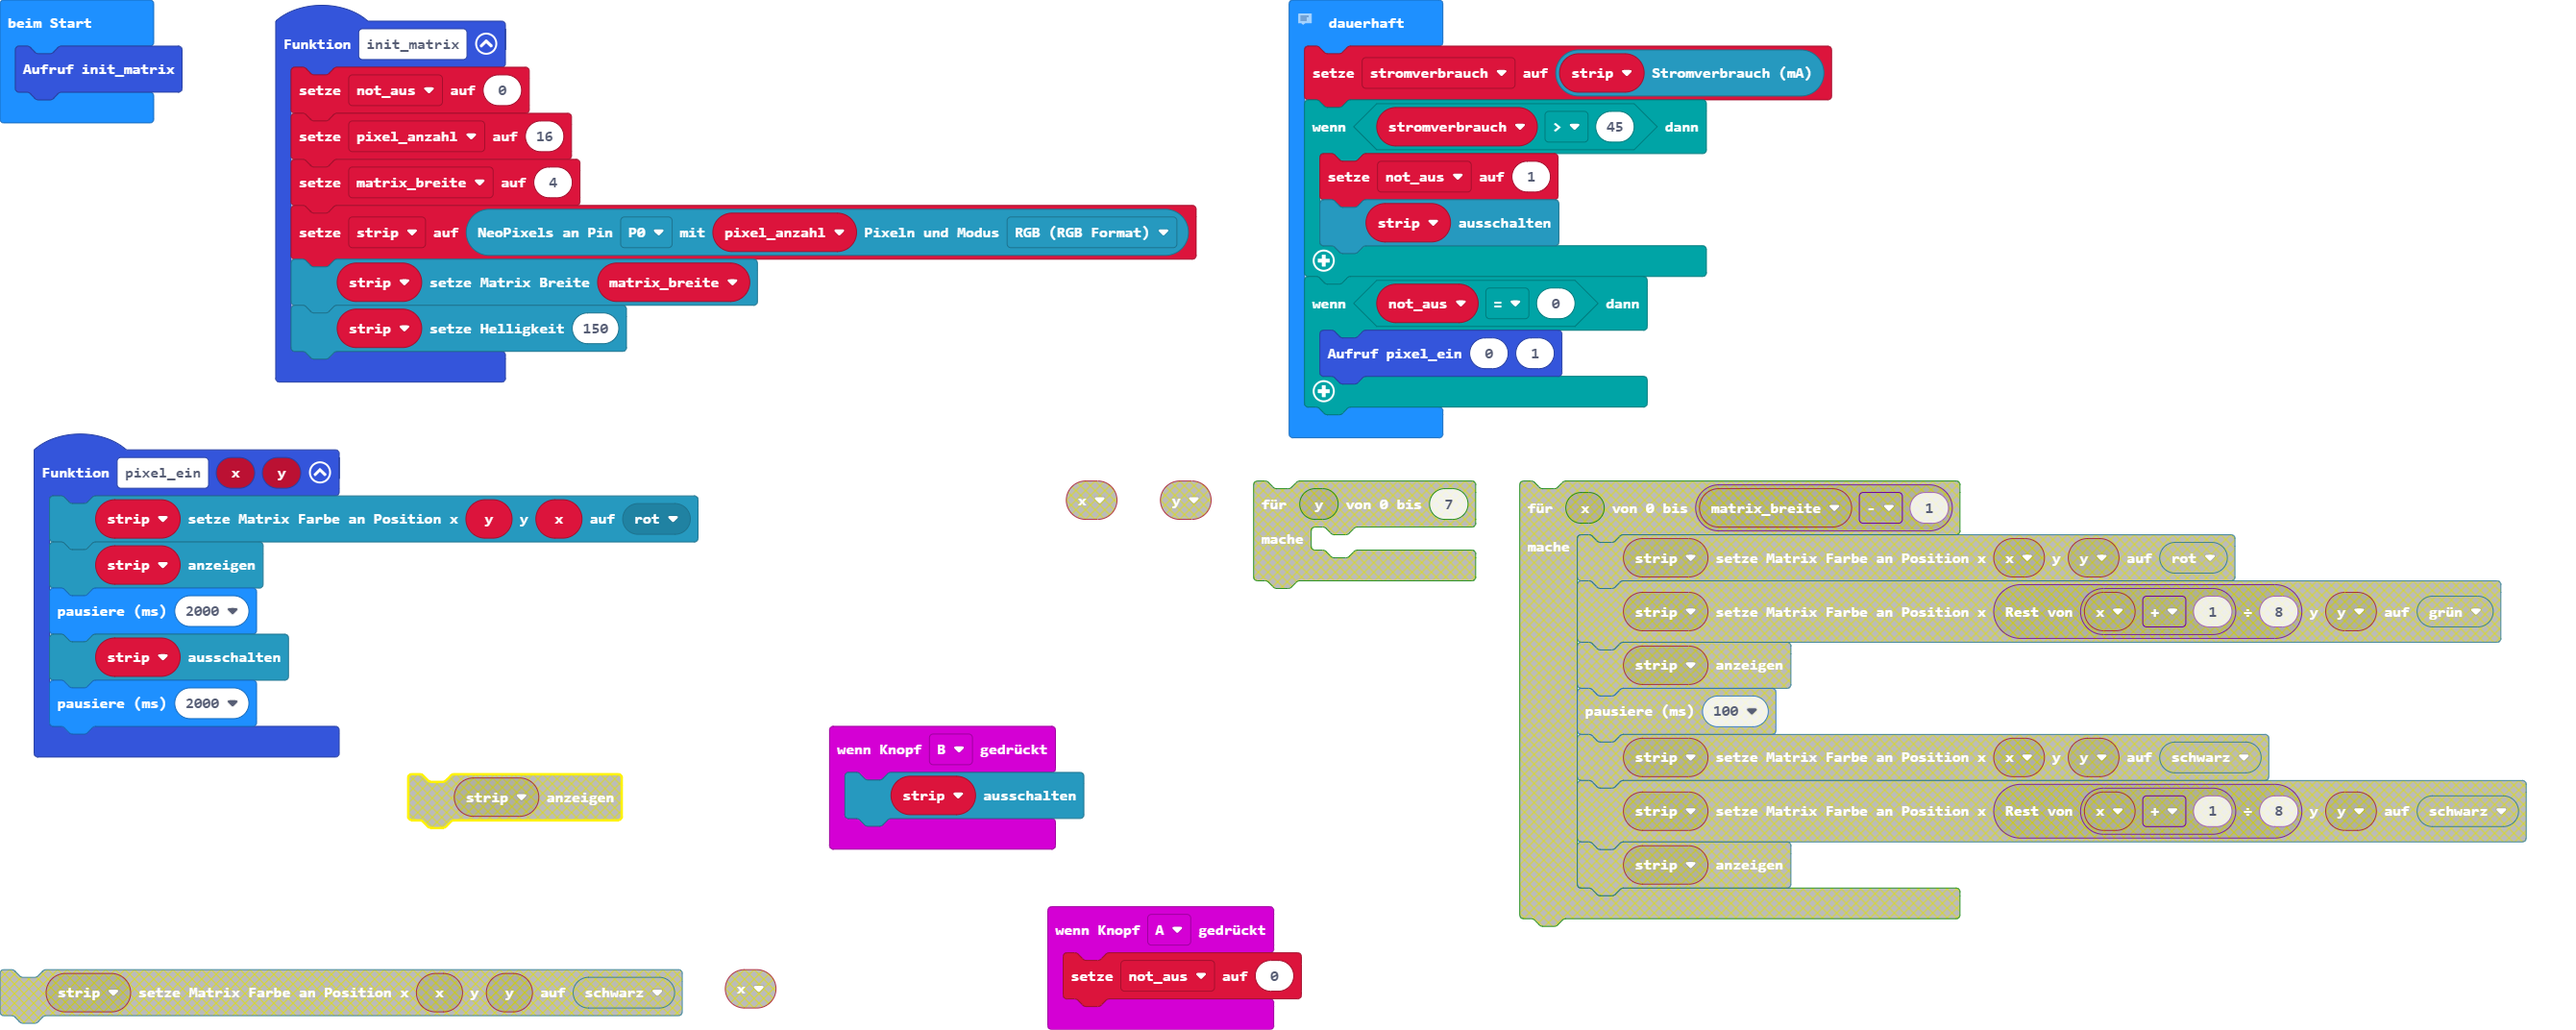
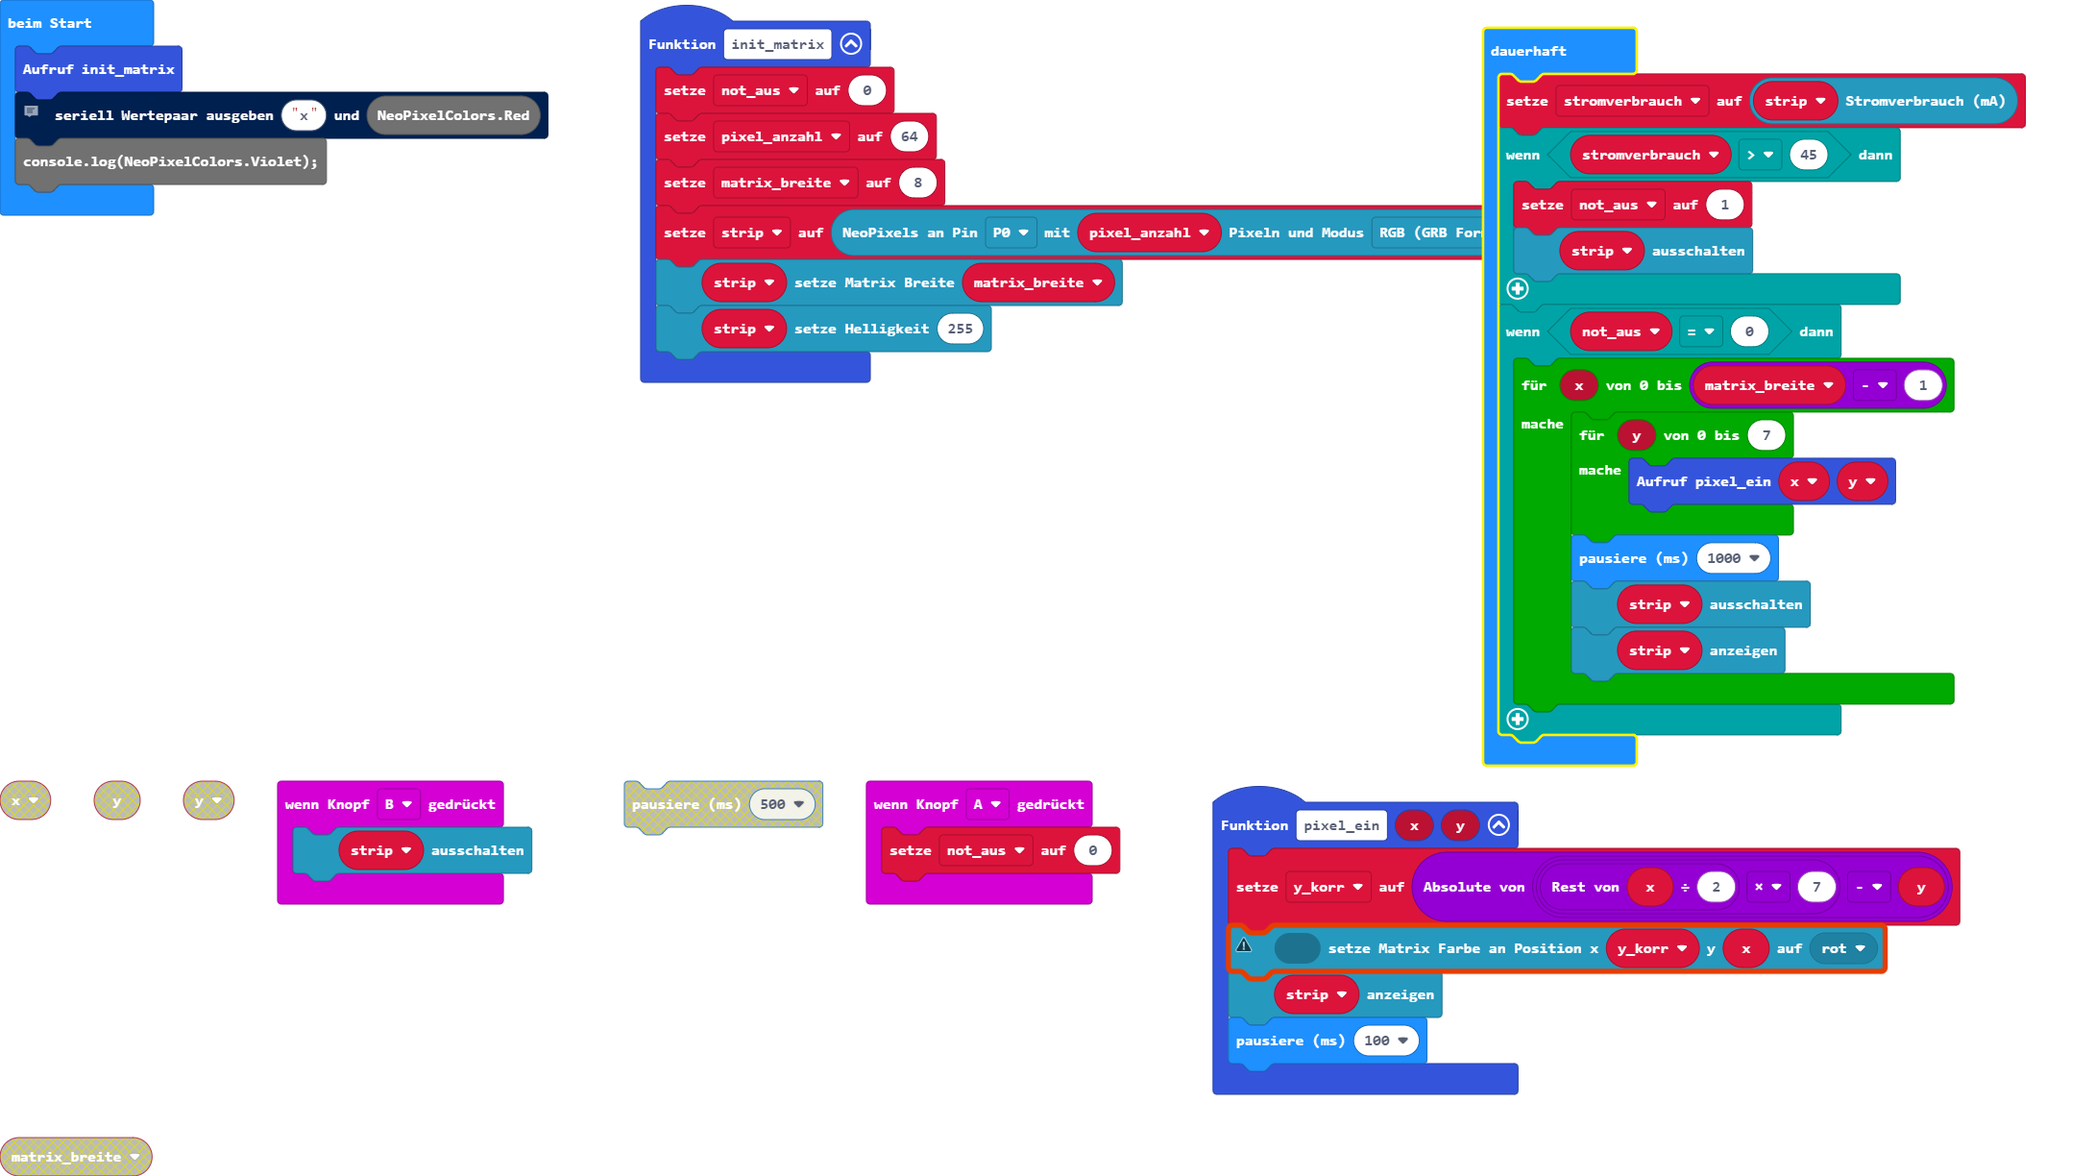
Aktualisiere main.blocks, main.ts

diff --git a/main.ts b/main.ts
@@ -1,31 +1,33 @@
 function init_matrix () {
     not_aus = 0
-    pixel_anzahl = 16
-    matrix_breite = 4
-    strip = neopixel.create(DigitalPin.P0, pixel_anzahl, NeoPixelMode.RGB_RGB)
+    pixel_anzahl = 64
+    matrix_breite = 8
+    strip = neopixel.create(DigitalPin.P0, pixel_anzahl, NeoPixelMode.RGB)
     strip.setMatrixWidth(matrix_breite)
-    strip.setBrightness(150)
+    strip.setBrightness(255)
 }
 input.onButtonPressed(Button.A, function () {
     not_aus = 0
 })
 function pixel_ein (x: number, y: number) {
-    strip.setMatrixColor(y, x, neopixel.colors(NeoPixelColors.Red))
+    y_korr = Math.abs(x % 2 * 7 - y)
+    null.setMatrixColor(y_korr, x, neopixel.colors(NeoPixelColors.Red))
     strip.show()
-    basic.pause(2000)
-    strip.clear()
-    basic.pause(2000)
+    basic.pause(100)
 }
 input.onButtonPressed(Button.B, function () {
     strip.clear()
 })
 let stromverbrauch = 0
+let y_korr = 0
 let strip: neopixel.Strip = null
 let matrix_breite = 0
 let pixel_anzahl = 0
 let not_aus = 0
 init_matrix()
 // serial.writeValue("x", stromverbrauch)
+serial.writeValue("x", NeoPixelColors.Red)
+console.log(NeoPixelColors.Violet);
 basic.forever(function () {
     stromverbrauch = strip.power()
     if (stromverbrauch > 45) {
@@ -33,6 +35,13 @@ basic.forever(function () {
         strip.clear()
     }
     if (not_aus == 0) {
-        pixel_ein(0, 1)
+        for (let x = 0; x <= matrix_breite - 1; x++) {
+            for (let y = 0; y <= 7; y++) {
+                pixel_ein(x, y)
+            }
+            basic.pause(1000)
+            strip.clear()
+            strip.show()
+        }
     }
 })
